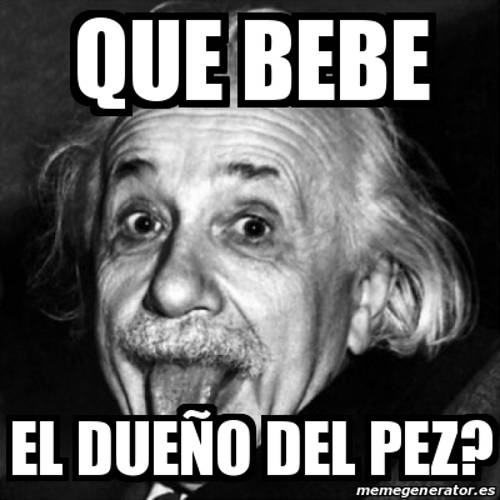
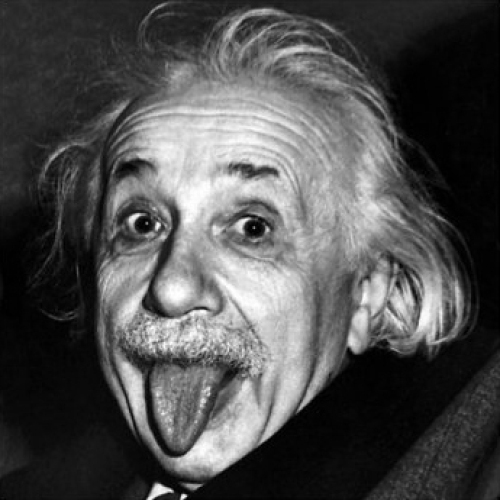
Improved quests.

Changed region(s): [[0.12, 0.0, 0.87, 0.24], [0.0, 0.78, 1.0, 1.0]]

diff --git a/frontend/src/views/Quest.vue b/frontend/src/views/Quest.vue
@@ -10,11 +10,11 @@
           md-icon.md-primary {{ active.icon }}
         md-card-header-text
           .md-title {{ active.title }}
-          .md-subhead Acertijo {{ active.id }} de {{ quests.length }}
+          .md-subhead Acertijo {{ index }} de {{ quests.length }}
       md-card-media
         img(v-bind:src="'img/quests/' + active.media")
         md-ink-ripple
-        md-button.md-primary.md-fab.floating(v-on:click="debug()", v-if="active.id < quests.length")
+        md-button.md-primary.md-fab.floating(v-on:click="debug()")
           md-icon play_arrow
       md-card-content
         span {{ active.description }}
@@ -32,169 +32,179 @@
       return {
         quests: [
           {
-            password: 'password',
-            icon: 'icon',
-            title: 'virginia',
-            media: 'media.extension',
-            description: 'virginia',
-            tags: ['tag1', 'tag2', 'tag3'],
+            password: '',
+            icon: 'extension',
+            title: 'Empieza el juego',
+            media: 'avatar.jpg',
+            description: 'Bienvenida a tu propia gymkana de aniversario! Durante 50 pruebas, resolverás pequeños acertijos sobre temas de la cultura friki que tanto nos gusta a los dos, y deberás resolverlas todas para encontrar el regalo que he escondido. Hay de todo: libros, películas, series, dibujos animados, videojuegos, juegos... Para avanzar debes encontrar la contraseña que desbloquea la siguiente prueba. Los códigos siempre son de una palabra, compuesta por letras y/o números. Elimina los signos de puntuación, pero respeta las mayúsculas. Suerte y que te diviertas!',
+            tags: ['Los', 'Tags', 'Ayudan', 'Nombre'],
             favorite: false,
             timestamp: 0
           },
           {
-            password: 'password',
-            icon: 'icon',
-            title: 'regreso al futuro',
-            media: 'media.extension',
-            description: 'regreso al futuro',
-            tags: ['tag1', 'tag2', 'tag3'],
+            password: 'Virginia',
+            icon: 'movies',
+            title: 'Marty, tenemos que volver',
+            media: 'delorean.gif',
+            description: 'Para resolver algunos acertijos tendrás que viajar usando tu flamante coche nuevo, que tiene algo que ver con este acertijo. También era híbrido, y sólo consumía 1.21GW por salto! Creo que he sido un poco enrevesado, pero eres una chica lista y seguro que lo sacas tarde o temprano.',
+            tags: ['California', 'Virginia'],
             favorite: false,
             timestamp: 0
           },
           {
-            password: 'password',
-            icon: 'icon',
-            title: 'monkey island',
-            media: 'media.extension',
-            description: 'monkey island',
-            tags: ['tag1', 'tag2', 'tag3'],
+            password: '1234VJS',
+            icon: 'games',
+            title: 'Peleas como una vaca',
+            media: 'monkey.gif',
+            description: 'Este es sin duda uno de los mejores juegos a los que he jugado, y espero que tu también si quieres superar la siguiente prueba. Concretamente la escena de las jarras. Consistía en llevar un líquido de una punta de la isla a la otra, mientras las jarras contenedoras se iban deshaciendo por el camino.',
+            tags: ['Piratas', 'Ingredientes', 'Jarras'],
             favorite: false,
             timestamp: 0
           },
           {
-            password: 'password',
-            icon: 'icon',
-            title: 'half life',
-            media: 'media.extension',
-            description: 'half life',
-            tags: ['tag1', 'tag2', 'tag3'],
+            password: 'Grog',
+            icon: 'book',
+            title: 'Acertijos en la oscuridad',
+            media: 'hobbit.gif',
+            description: 'El mejor capítulo del libro, el duelo a muerte de dos aficionados a los acertijos. Aunque uno de ellos hizo trampa, el otro también, así que técnicamente fue un empate de tramposos. Pero yo tampoco habría jugado limpio con Gollum, la verdad.',
+            tags: ['Acertijos', 'Último'],
             favorite: false,
             timestamp: 0
           },
           {
-            password: 'password',
-            icon: 'icon',
-            title: 'fisica',
-            media: 'media.extension',
-            description: 'fisica',
-            tags: ['tag1', 'tag2', 'tag3'],
+            password: 'Anillo',
+            icon: 'extension',
+            title: 'Electricidad',
+            media: 'law.jpg',
+            description: 'Este es un chiste de ingenieros. Bueno, la verdad es que de ingeniero, en singular. Mío, porque nadie más lo pilla. Aunque en realidad, es nuestro. Y el gato me ha venido que ni pintado!',
+            tags: ['Ley', 'Física'],
             favorite: false,
             timestamp: 0
           },
           {
-            password: 'password',
-            icon: 'icon',
-            title: 'skyrim',
-            media: 'media.extension',
-            description: 'skyrim',
-            tags: ['tag1', 'tag2', 'tag3'],
+            password: 'Ohm',
+            icon: 'games',
+            title: 'Desierto de Nevada',
+            media: 'halflife.gif',
+            description: 'Allí transcurre este grandísimo juego. Supongo que te sonará. Lo que nos interesa aquí no es el juego como tal, sino la ubicación de las instalaciones del mismo. Has jugado?',
+            tags: ['Nombre', 'Clave', 'Complejo'],
             favorite: false,
             timestamp: 0
           },
           {
-            password: 'password',
-            icon: 'icon',
-            title: 'logica',
-            media: 'media.extension',
-            description: 'logica',
-            tags: ['tag1', 'tag2', 'tag3'],
+            password: 'BlackMesa',
+            icon: 'movies',
+            title: 'Los números son chungos',
+            media: 'lost.gif',
+            description: 'Otra grandísima serie, probablemente la primera que vi como una "serie" de capítulos en los que el orden importaba y mucho. De cuando apenas tenía suficiente banda ancha de internet en casa para poder verlo en streaming, pero eso no me impedía pausar la carga y poder ver capítulos hasta altísimas horas de la madrugada. Final decepcionante.',
+            tags: ['Spoiler', 'Perdidos', 'Hugo'],
             favorite: false,
             timestamp: 0
           },
           {
-            password: 'password',
-            icon: 'icon',
-            title: 'la historia interminable',
-            media: 'media.extension',
-            description: 'la historia interminable',
-            tags: ['tag1', 'tag2', 'tag3'],
+            password: '8',
+            icon: 'book',
+            title: 'Imaginación al poder',
+            media: 'neverending.gif',
+            description: 'Uno de los libros que con más cariño recuerdo de mi infancia. De cuando las novelas río de fantasía medieval eran demasiado complicados para un niño, que prefería entretenerse con amigables dragones y princesas en altos castillos.',
+            tags: ['Amuleto', 'Cura', 'Enfermedad'],
             favorite: false,
             timestamp: 0
           },
           {
-            password: 'password',
-            icon: 'icon',
-            title: 'el hobbit',
-            media: 'media.extension',
-            description: 'el hobbit',
-            tags: ['tag1', 'tag2', 'tag3'],
+            password: 'Auryn',
+            icon: 'games',
+            title: 'Fus Ro Dah!',
+            media: 'dragonborn.jpg',
+            description: '"Yo antes era un aventurero como tú, pero un día me hirieron con una flecha en la rodilla". Esa es sin duda la frase más repetida en este, por otro lado, grandísimo juego. Aunque tenía cosas muy absurdas. Recuerdo haber subido Herrería al máximo nivel fabricando cientos de dagas de hierro. Pero había otra armadura más chula todavía.',
+            tags: ['Elemento', 'Metal', 'Armadura'],
             favorite: false,
             timestamp: 0
           },
           {
-            password: 'password',
-            icon: 'icon',
-            title: 'lost',
-            media: 'media.extension',
-            description: 'lost',
-            tags: ['tag1', 'tag2', 'tag3'],
+            password: 'Onice',
+            icon: 'extension',
+            title: 'Las 5 casas',
+            media: 'einstein.jpg',
+            description: 'Seguro que has hecho este rompecabezas antes. Te toca volverlo a hacer, pero ésta vez para responder a mi pregunta: ¿Qué bebe el dueño del pez?',
+            tags: ['País', 'Origen', 'Bebida'],
             favorite: false,
             timestamp: 0
           },
           {
-            password: 'password',
-            icon: 'icon',
-            title: 'saw',
-            media: 'media.extension',
-            description: 'saw',
-            tags: ['tag1', 'tag2', 'tag3'],
+            password: 'Cerveza',
+            icon: 'movies',
+            title: 'Oferta en la ferretería',
+            media: 'saw.gif',
+            description: 'Me imagino al malo yendo a la ferretería del barrio a comprar bridas, cal, un barreño resistente al ácido, ácido, un saco, una cuerda, una pala y algunos instrumentos de tortura de oferta para hacer intrincados instrumentos de muerte retardada. Y pagando en efectivo. Todo muy correcto, todo muy normal. Siempre saludaba.',
+            tags: ['Asesino', 'Nick'],
             favorite: false,
             timestamp: 0
           },
           {
-            password: 'password',
-            icon: 'icon',
-            title: 'pokemon',
-            media: 'media.extension',
-            description: 'pokemon',
-            tags: ['tag1', 'tag2', 'tag3'],
+            password: 'Jigsaw',
+            icon: 'games',
+            title: 'Hazte con todos!',
+            media: 'pokemon.jpg',
+            description: 'Aunque es jodidamente imposible. Hay más de 800. Y éste es uno de ellos. Aunque no he sido tan cabrón de coger uno al azar para que los vayas comparando. Este es ligeramente especial. Suerte!',
+            tags: ['Nombre', '4chan'],
             favorite: false,
             timestamp: 0
           },
           {
-            password: 'password',
-            icon: 'icon',
-            title: 'cards agains humanity',
-            media: 'media.extension',
-            description: 'cards agains humanity',
-            tags: ['tag1', 'tag2', 'tag3'],
+            password: 'Tentaquil',
+            icon: 'book',
+            title: 'Le Petit Prince',
+            media: 'little.gif',
+            description: 'Otro precioso libro de obligada lectura infantil y no tan infantil. Mientras que los niños ven un elefante en el estómago de una boa, los adultos somos muchos más simples y aburridos... Menos mal que yo no.',
+            tags: ['Realidad'],
             favorite: false,
             timestamp: 0
           },
           {
-            password: 'password',
-            icon: 'icon',
-            title: 'los simpsons',
-            media: 'media.extension',
-            description: 'los simpsons',
-            tags: ['tag1', 'tag2', 'tag3'],
+            password: 'Sombrero',
+            icon: 'filter_6',
+            title: 'Cards Against Humanity',
+            media: 'cah.jpg',
+            description: 'Cuando me soltaste esa burrada mientras veíamos juntos uno de los capítulos de esa serie, me hiciste reir tanto que me dije: "Esta chica es para mí". Simple y llanamente.',
+            tags: ['Burrada', 'Plural'],
             favorite: false,
             timestamp: 0
           },
           {
-            password: 'password',
-            icon: 'icon',
-            title: 'world of warcraft',
-            media: 'media.extension',
-            description: 'world of warcraft',
-            tags: ['tag1', 'tag2', 'tag3'],
+            password: 'Niños',
+            icon: 'games',
+            title: 'World of Warcraft',
+            media: 'item.jpg',
+            description: 'Otro agujero de horas y no parar de jugar. Por cierto, la historia del Warcraft está bastante bien. El Warcraft3 la expone en un orden muy interesante. Pero aquí buscamos al culpable de todo, en realidad.',
+            tags: ['Arma', 'Inglés'],
             favorite: false,
             timestamp: 0
           },
           {
-            password: 'password',
-            icon: 'icon',
-            title: 'el señor de los anillos',
-            media: 'media.extension',
-            description: 'el señor de los anillos',
-            tags: ['tag1', 'tag2', 'tag3'],
+            password: 'Frostmourne',
+            icon: 'movies',
+            title: 'Run',
+            media: 'stranger.gif',
+            description: 'Vaya pedazo de serie. Muy oscura y a la vez casi familiar con la pandilla de Verano Azul dando vueltas por la ciudad. Y la escena de las luces de navidad sobre la pared fue magistral. Tal vez deberías verla más de cerca.',
+            tags: ['Luces', 'Letras', 'Palabra'],
             favorite: false,
             timestamp: 0
           },
           {
-            password: 'password',
-            icon: 'icon',
-            title: 'super mario',
+            password: 'Currada',
+            icon: 'book',
+            title: 'Habla y entra',
+            media: 'moria.gif',
+            description: 'Otra escena mítica de otro gran libro y película. Aquí vamos a jugar un poco con el frikismo más extremo. Da gracias que no me gusta Star Trek...',
+            tags: ['Élfico', 'Hermosa'],
+            favorite: false,
+            timestamp: 0
+          },
+          {
+            password: 'Vanya',
+            icon: 'games',
+            title: '+1 UP!',
             media: 'media.extension',
             description: 'super mario',
             tags: ['tag1', 'tag2', 'tag3'],
@@ -217,16 +227,6 @@
             title: 'crash bandicoot',
             media: 'media.extension',
             description: 'crash bandicoot',
-            tags: ['tag1', 'tag2', 'tag3'],
-            favorite: false,
-            timestamp: 0
-          },
-          {
-            password: 'password',
-            icon: 'icon',
-            title: 'el principito',
-            media: 'media.extension',
-            description: 'el principito',
             tags: ['tag1', 'tag2', 'tag3'],
             favorite: false,
             timestamp: 0
@@ -314,7 +314,7 @@
           {
             password: 'password',
             icon: 'icon',
-            title: 'malcolm',
+            title: 'big bang theory',
             media: 'media.extension',
             description: 'malcolm',
             tags: ['tag1', 'tag2', 'tag3'],
@@ -566,7 +566,8 @@
         return hash
       },
       debug () {
-        this.password = this.active.password
+        var index = this.quests.findIndex(quest => quest.password === this.password)
+        this.password = this.quests[index + 1].password
       }
     },
     computed: {
@@ -585,6 +586,9 @@
         } else {
           return this.quests[0]
         }
+      },
+      index () {
+        return this.quests.findIndex(quest => quest.password === this.password)
       }
     }
   }

diff --git a/frontend/src/views/Help.vue b/frontend/src/views/Help.vue
@@ -17,10 +17,10 @@
             md-icon extension
             span Simboliza puzzle
           md-list-item
-            md-icon theaters
-            span Simboliza serie o película
+            md-icon movies
+            span Simboliza televisión
           md-list-item
-            md-icon videogame_asset
+            md-icon games
             span Simboliza videojuego
           md-list-item
             md-icon book
@@ -28,6 +28,10 @@
           md-list-item
             md-icon place
             span Simboliza lugar
+          md-list-item
+            md-icon filter_6
+            span Simboliza juego
+
 </template>
 
 <script>

diff --git a/frontend/README.md b/frontend/README.md
@@ -26,7 +26,7 @@ alien (nostromo)
 resident evil (virus)
 pacman (fantasmas)
 breaking bad (beba)
-malcolm (kenarban)
+big bang theory (doppler)
 mad max (rockatansky)
 mortal kombat (monstruo final)
 jumanji (zathura)
